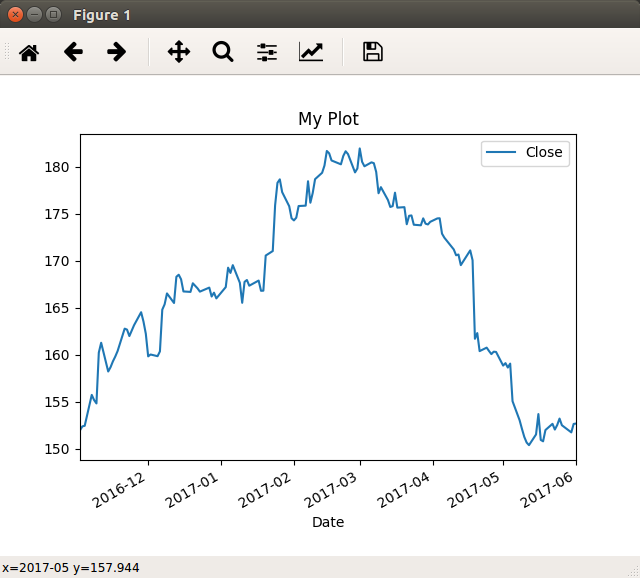
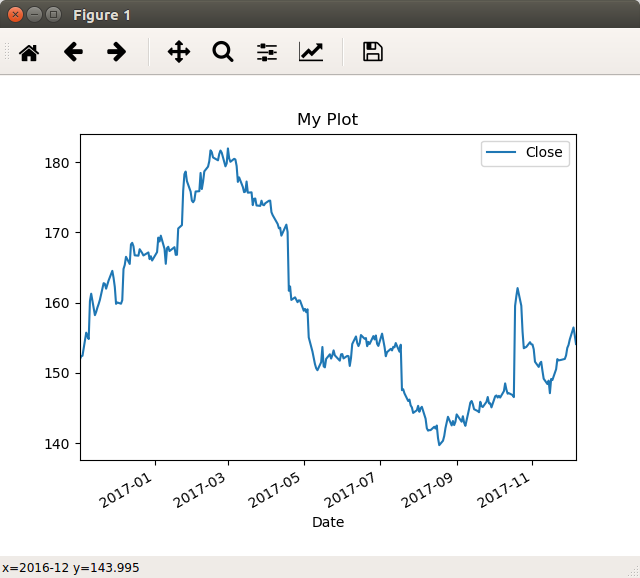
more

diff --git a/public/class01/plot1.py b/public/class01/plot1.py
@@ -2,6 +2,9 @@
 plot1.py
 
 This script should Plot IBM Prices For 2016-11
+
+Demo:
+~/anaconda3/bin/python plot1.py
 """
 
 import datetime
@@ -12,7 +15,7 @@ import pandas_datareader as pdr
 # I should get the prices:
 start_dt   = datetime.datetime(2016,  1,  1)
 end_dt     = datetime.datetime(2026, 12, 31)
-prices1_df = pdr.DataReader('IBM', 'google', start_dt, end_dt)
+prices1_df = pdr.DataReader('IBM', 'yahoo', start_dt, end_dt)
 # I should get 2016-11 data:
 pred_sr    = prices1_df.index > '2016-11'
 prices2_df = prices1_df.copy()[['Close']][pred_sr]
